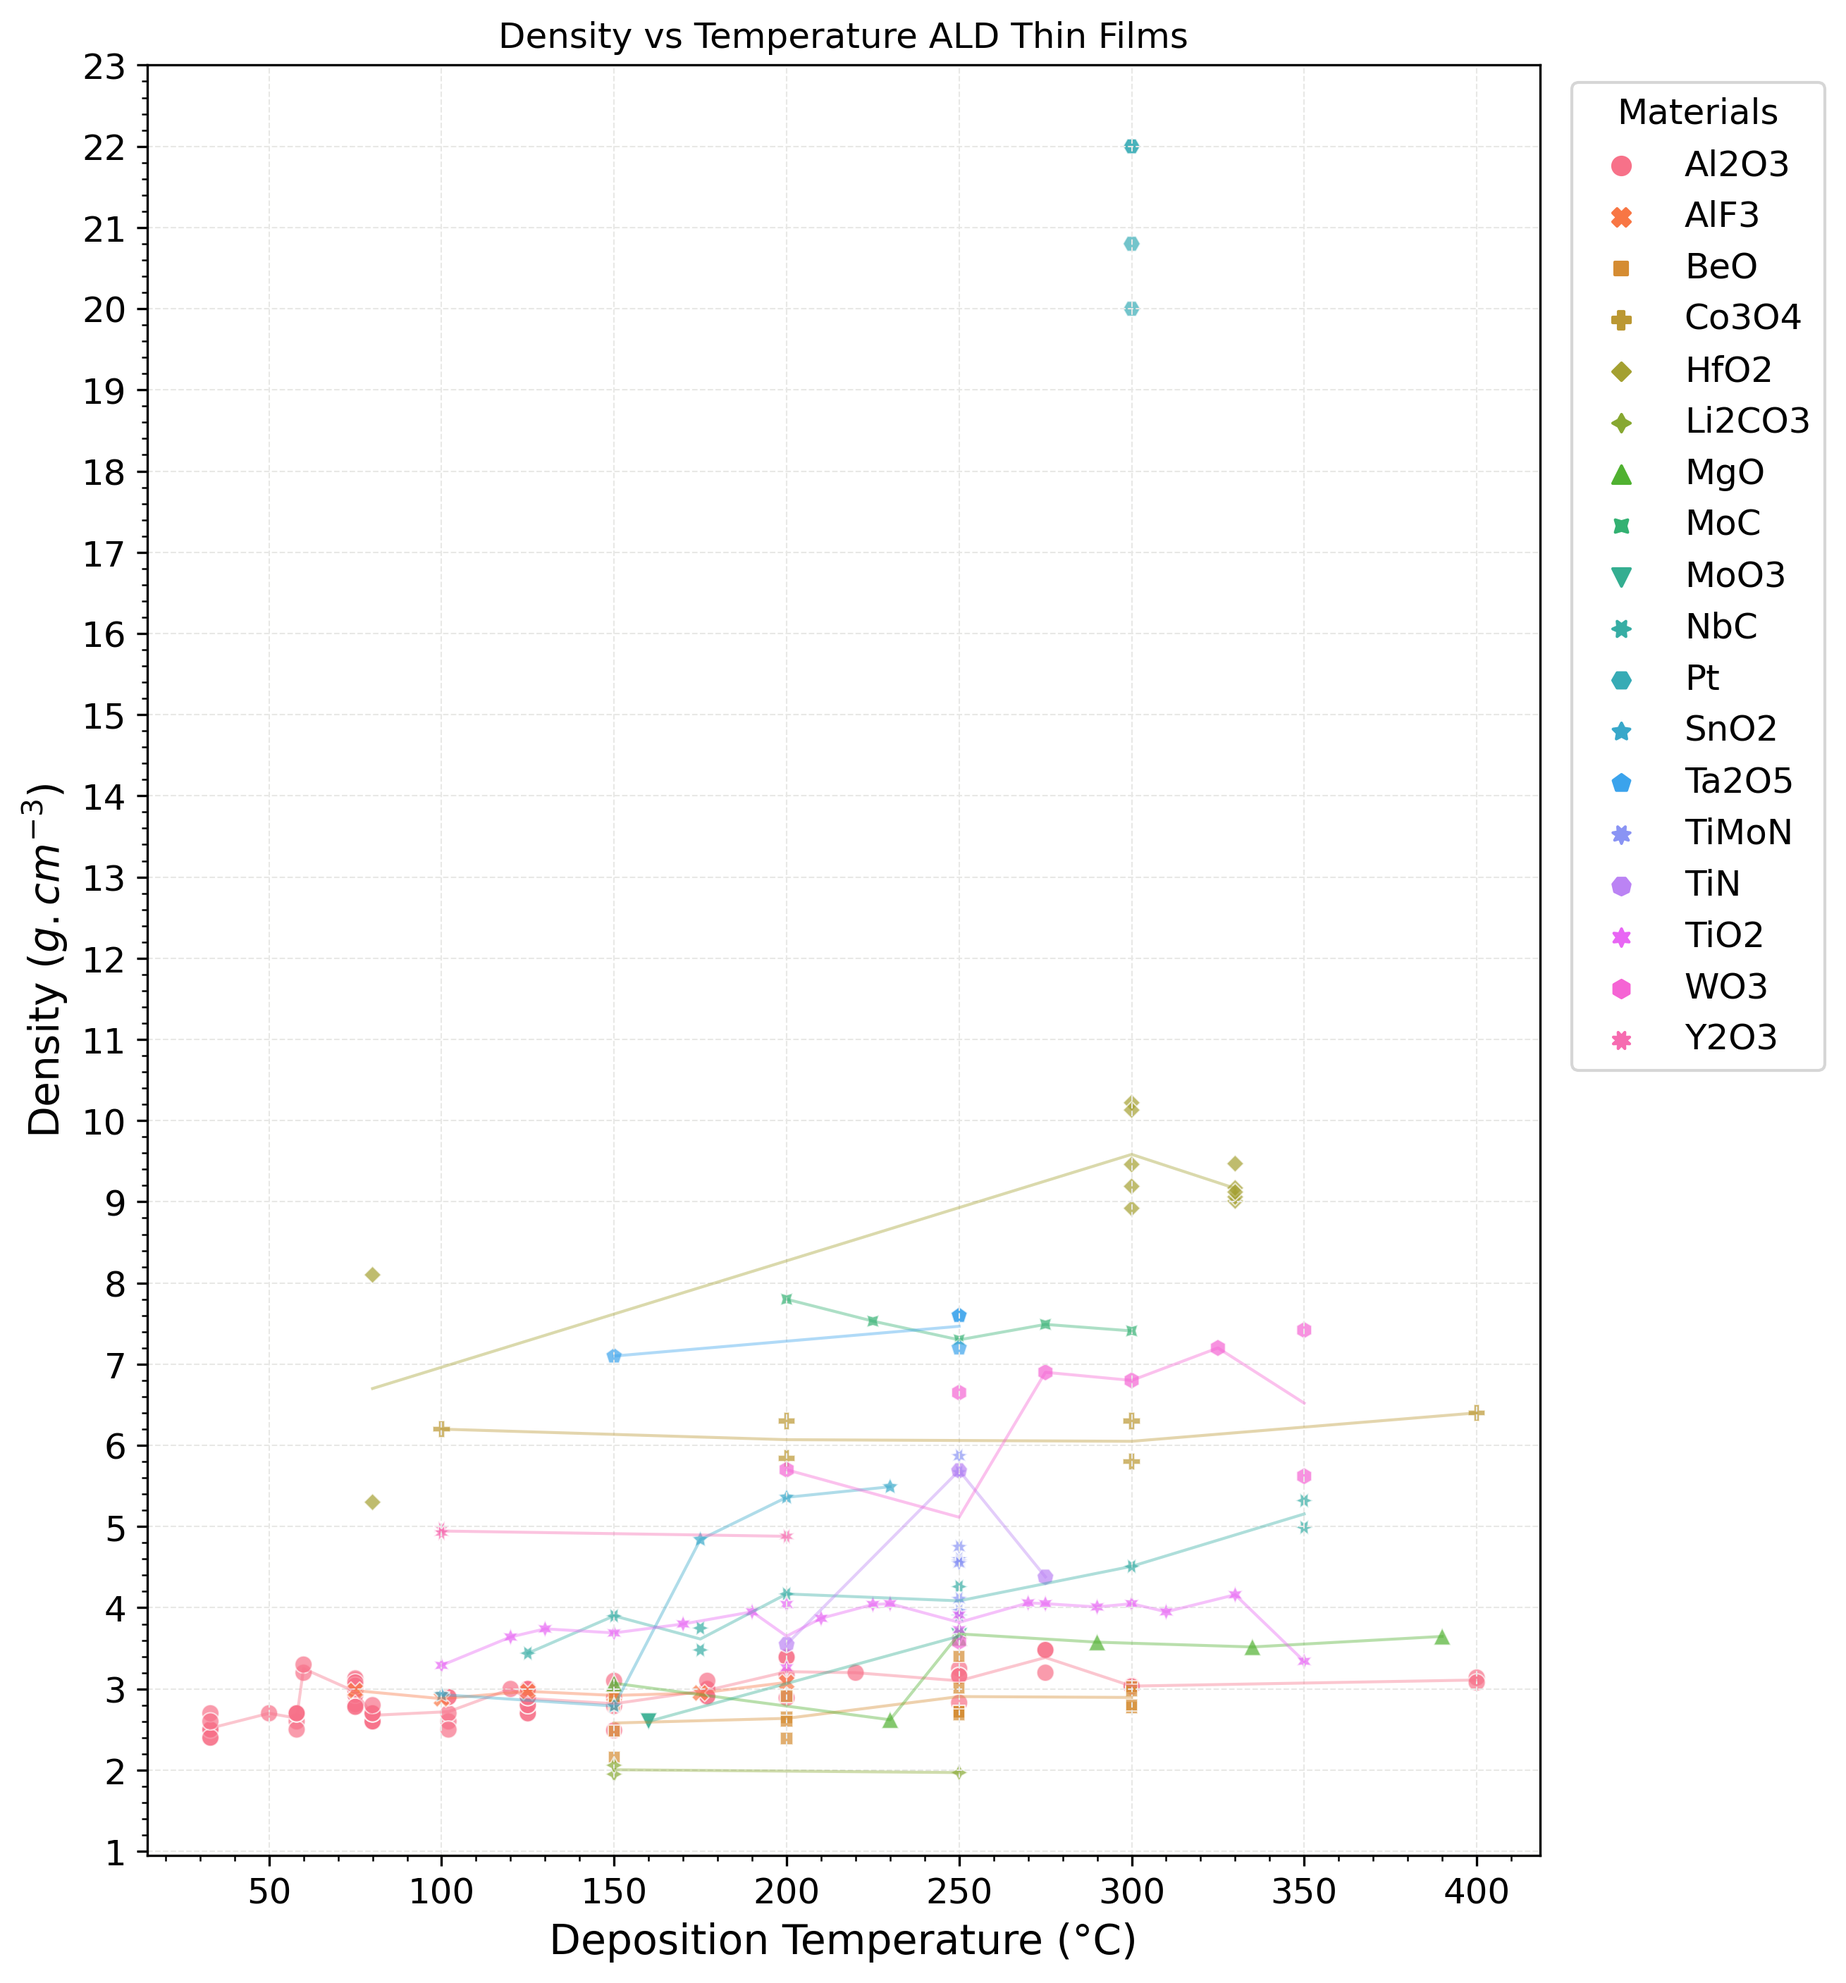
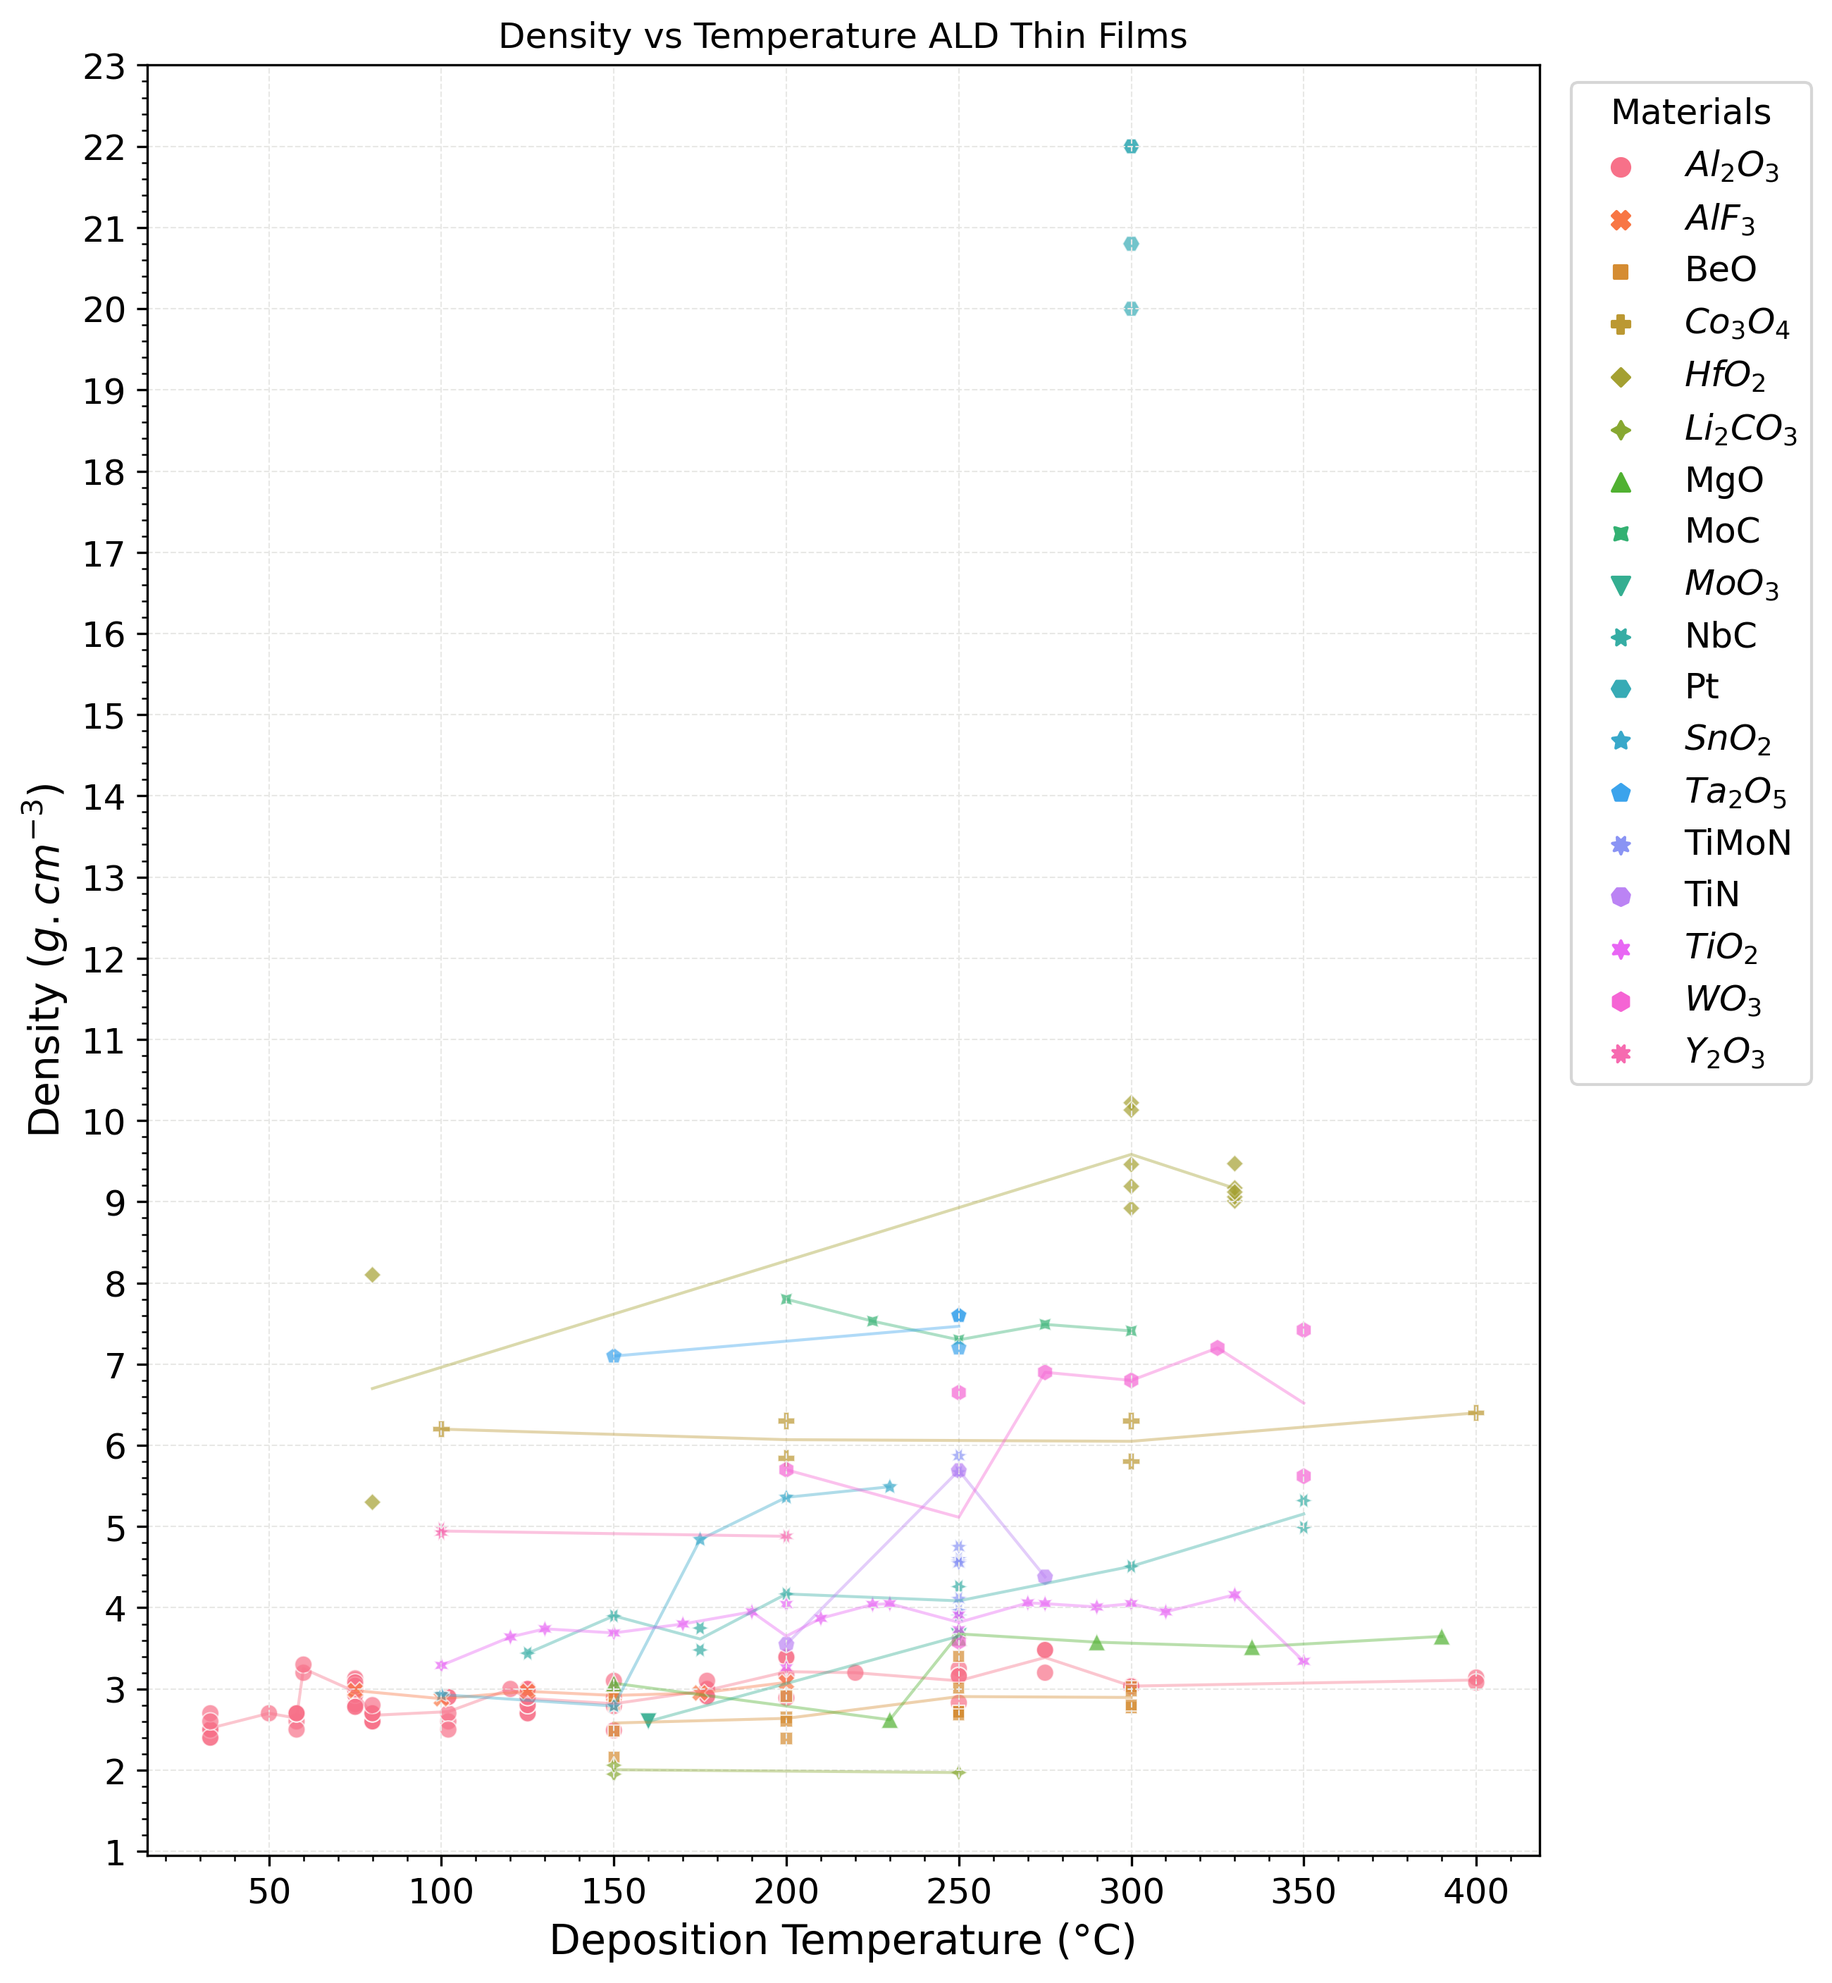
plot2: subscripts in legend

diff --git a/scripts/plot_ald.py b/scripts/plot_ald.py
@@ -14,6 +14,7 @@ from scipy import stats
 import matplotlib.pyplot as plt
 from matplotlib.ticker import AutoMinorLocator, FuncFormatter
 import random
+import re
 
 
 
@@ -78,6 +79,25 @@ print(df_plot2[Z].value_counts(), "\n")
 print(df_plot2.groupby(Z)[X].nunique(), "\n")
 
 
+def create_latex_labels(label):
+    if type(label) is float and np.isnan(label):
+        return label
+
+    label = str(label)
+    lbls = label.split(" ", 1)
+    new_label = []
+    for lbl in lbls:
+        lbl = str(lbl)
+        nlbl =  re.sub(r'([a-zA-Z])(\d+)', r'\1_{\2}',lbl)
+        nlbl = lbl if (lbl==nlbl) else f"${nlbl}$"
+        new_label.append(nlbl)
+
+    label = " ".join(new_label)
+    label = label.strip()
+    label = rf'{label}'
+    return label
+
+
 def get_line_plot(df, x, y, z):
     # sns.set(style='darkgrid')
     # sns.set(rc={'axes.facecolor':'aliceblue', 'axes.edgecolor':'grey'})
@@ -125,7 +145,11 @@ def get_line_plot(df, x, y, z):
     # for label, df_g in df.groupby(z):
     #     df_g.vals.plot(kind="kde", ax=ax, label=label)
 
-    plt.legend(title=f"{z}s", loc=2, bbox_to_anchor=(1.01, 1));
+    handles, labels  =  ax.get_legend_handles_labels() # get legend text  
+    labels = [create_latex_labels(l) for l in labels] # Al2O3 --> $Al_{2}O_{3}$
+    ax.legend(handles, labels) # set modified labels
+
+    sns.move_legend(ax, title=f"{z}s", loc=2, bbox_to_anchor=(1.01, 1));
 
 
     ax.xaxis.set_minor_locator(AutoMinorLocator(5))
